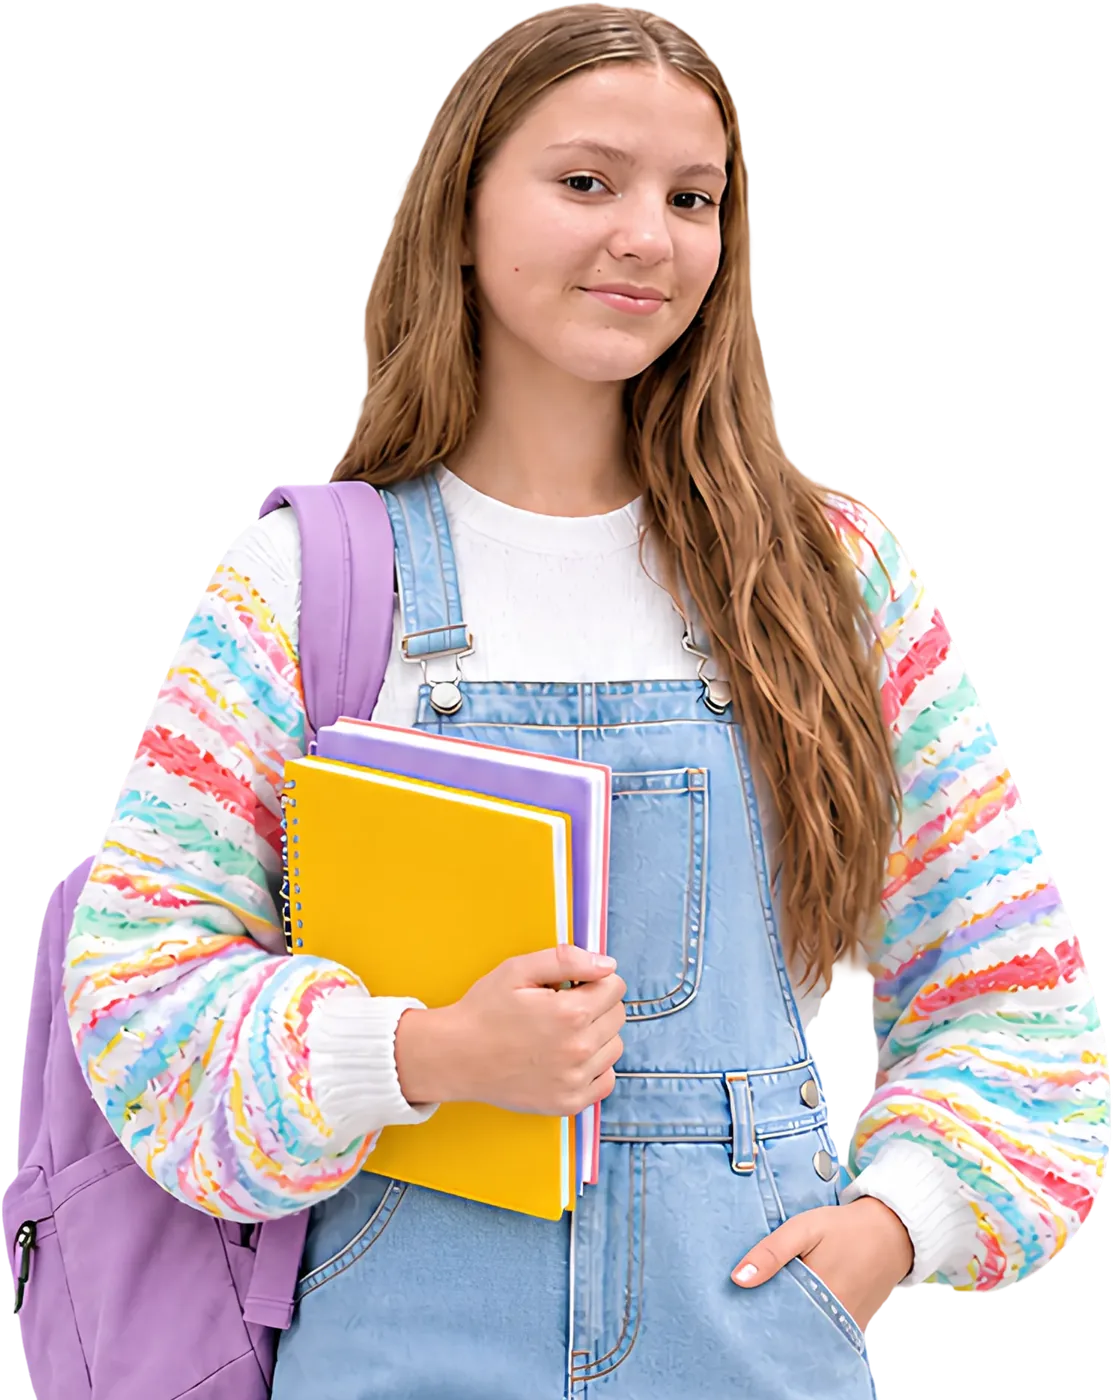
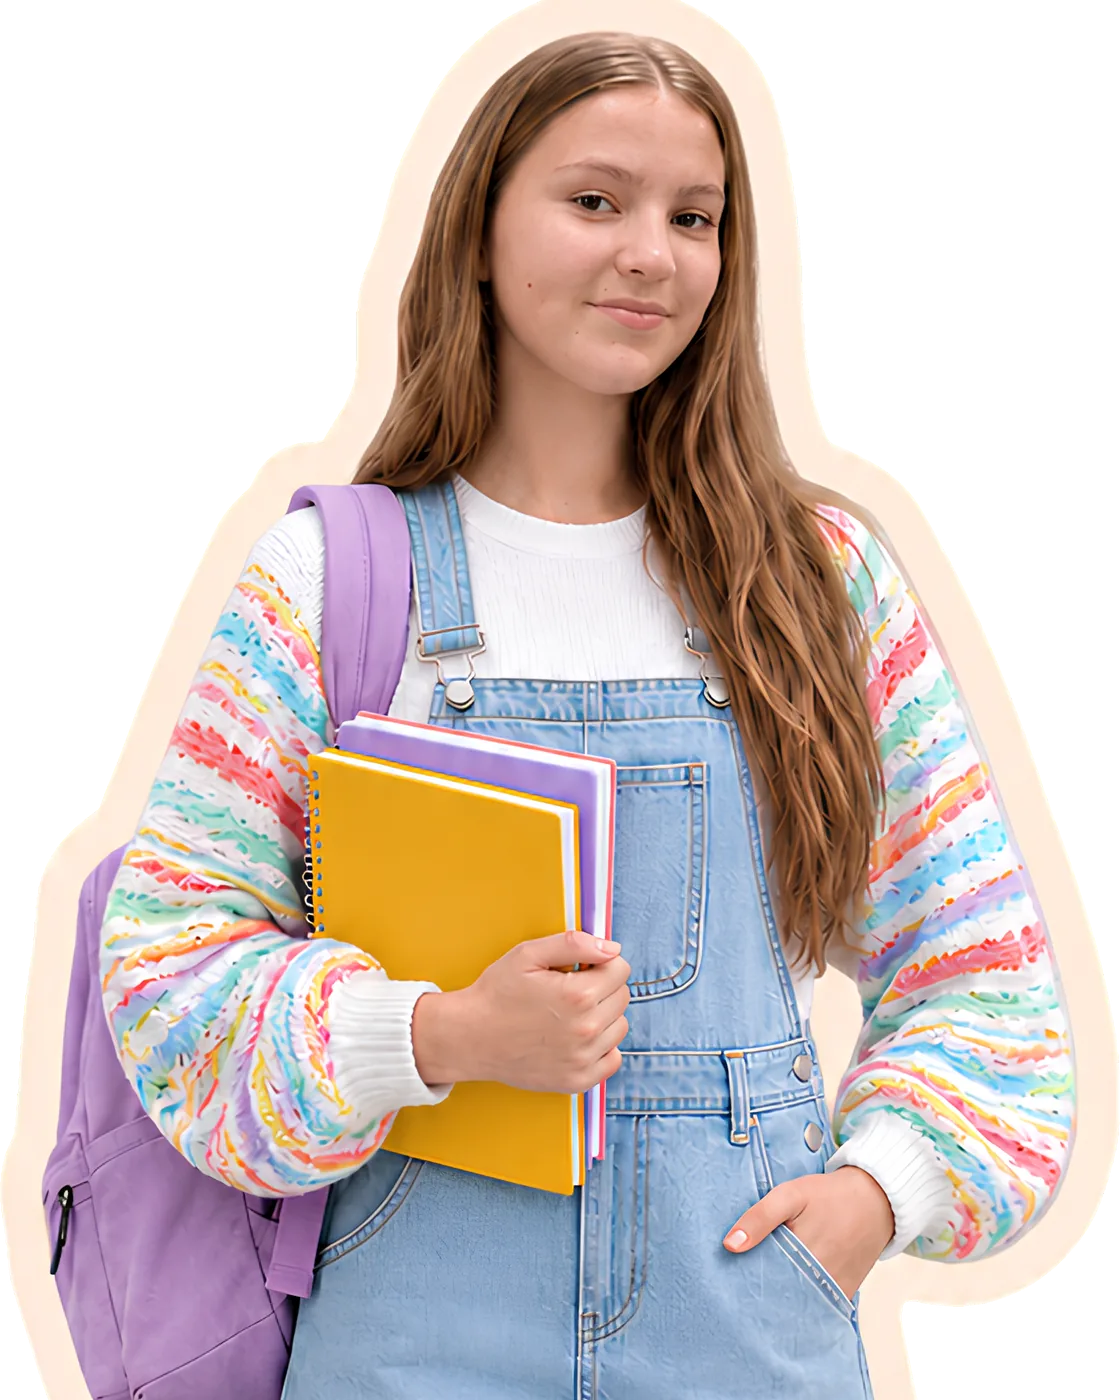
Вырезка в hero: вариант-наклейка с кремовой обводкой
Новый кадр клиента. Пришёл БЕЗ альфа-канала — фигура с обводкой
на сплошном чёрном фоне, прозрачность вырезана нами.

Фон снят заливкой от краёв кадра, а не порогом по яркости: в волосах
и тенях яркость доходит до 45, и порог продырявил бы фигуру. Замер —
внутри осталось 65 074 тёмных пикселя, все целы.

Альфа ужата на 3px. Это не косметика: под прозрачностью лежит чёрный,
PIL ресемплит RGB и альфу без предумножения, и без эрозии на кромке
смешался бы кремовый с чёрным. Эрозия уводит границу внутрь обводки,
поэтому мешается кремовый с кремовым. Контроль на готовом файле:
средняя яркость кромки 253 при обводке 250.

Кроп по пояс на y=3050 — ниже кисти в кармане, как и в прошлый раз.
1120×1400, WebP q82, 136 КБ. Пропорция 0.800 против 0.795, поэтому
раскладка и формула выравнивания синих полей не тронуты.

Замеры: 1920 → 560×700, поля 89/89; 1280 → 383×479, поля 52/52;
1024 → 380×475, макушка и низ целы.

diff --git a/css/hero.css b/css/hero.css
@@ -4,7 +4,7 @@
    со скруглением внутри .container, текст слева, вырезка без фона прижата
    к правому нижнему углу.
 
-   Кадр поясной (пропорция 0.795), поэтому колонка картинки широкая — 0.6fr.
+   Кадр поясной (пропорция 0.800), поэтому колонка картинки широкая — 0.6fr.
    ⚠ Меняете кроп вырезки — пересчитывайте эту долю: она подобрана так, чтобы
    синего поля слева и справа от фигуры было поровну (см. .hero__media ниже). */
 
@@ -170,7 +170,7 @@
 
 /* ⚠ Масштабируем по ВЫСОТЕ, а не по ширине — как вырезки в school
    (school/css/hero.css: .hero__kid { height: 100% }) и как в вебинаре 1.
-   У этого кадра меньшая сторона — ширина (1113×1400, пропорция 0.795),
+   У этого кадра меньшая сторона — ширина (1120×1400, пропорция 0.800),
    поэтому привязка к height корректна: высота упирается в потолок первой.
 
    ⚠ Потолок 700px — ровно предел по Retina, поднимать нельзя. Правило
@@ -236,10 +236,10 @@
   }
 
   /* ⚠ Здесь размер задаёт ШИРИНА, а не высота. Поясной кадр широкий
-     (пропорция 0.795): растянутая на всю высоту панели фигура вышла бы
+     (пропорция 0.800): растянутая на всю высоту панели фигура вышла бы
      под 420px по ширине и накрыла бы собой текстовую колонку даже
-     приглушённой. Потолок 380px даёт высоту ~478 (Retina: 760 против 1113
-     и 956 против 1400 в файле — апскейла нет), а `max-height: 100%`
+     приглушённой. Потолок 380px даёт высоту ~475 (Retina: 760 против 1120
+     и 950 против 1400 в файле — апскейла нет), а `max-height: 100%`
      страхует от вылета за верхнюю кромку на низкой панели. */
   .hero__teen {
     height: auto;

diff --git a/index.html b/index.html
@@ -186,7 +186,7 @@
           </div>
 
           <div class="hero__media">
-            <img class="hero__teen" src="assets/img/hero/teen.webp" alt="Старшеклассница с рюкзаком и тетрадями" width="1113" height="1400" fetchpriority="high">
+            <img class="hero__teen" src="assets/img/hero/teen.webp" alt="Старшеклассница с рюкзаком и тетрадями" width="1120" height="1400" fetchpriority="high">
           </div>
         </div>
       </div>

diff --git a/CLAUDE.md b/CLAUDE.md
@@ -94,7 +94,7 @@ vebinar-2/
         ├── logo.svg          — цветное лого (шапка)
         ├── logo_footer.svg   — белое лого (футер)
         ├── green-check.svg   — галочка в колонке «что происходит на самом деле»
-        ├── hero/teen.webp    — поясная вырезка старшеклассницы (1113×1400), см. раздел ниже
+        ├── hero/teen.webp    — поясная вырезка-наклейка старшеклассницы (1120×1400), см. раздел ниже
         ├── decor/            — grid.svg, wave.svg, swirl.webp, spark-*.svg,
         │                       boy.webp (⚠ ПОЛНЫЙ кадр 424×272 = boy-mobile.webp из school.
         │                       Десктопный кроп school 424×220 брать нельзя: у него
@@ -130,33 +130,54 @@ vebinar-2/
 
 ## 🖼 Вырезка в hero
 
-`assets/img/hero/teen.webp` — **1113×1400, WebP q82, 142 КБ**, поясная вырезка
-старшеклассницы с прозрачным фоном (файл клиента, 11.08.2026).
+`assets/img/hero/teen.webp` — **1120×1400, WebP q82, 136 КБ**, поясная вырезка
+старшеклассницы **в виде наклейки** — с кремовой обводкой по контуру
+(файл клиента, 11.08.2026).
 
-Как готовился из исходника 2731×4096 PNG (3.6 МБ):
+⚠ **Исходник пришёл БЕЗ альфа-канала:** RGB 4092×6148, фигура с кремовой обводкой
+на сплошном чёрном фоне. Прозрачность вырезана нами, и это главное отличие
+пайплайна от предыдущей версии.
 
-1. **обрезаны прозрачные поля** по `getbbox()` альфы — в исходнике фигура занимала
-   1494×3983 из 2731×4096, остальное пустота, которая всё равно попала бы в файл;
-2. **кроп по пояс на y=1880** от макушки. ⚠ Не по линии пояса (она на 1600–1650,
-   там пуговицы комбинезона): на 1650 разрезало бы кисть руки в кармане, которая
-   заканчивается только на ~1810. Режем ниже неё;
-3. **боковые поля пересчитаны заново** после вертикального кропа — ширину фигуры
-   задают локти и рюкзак, и после отсечения ног габарит меняется;
-4. **альфа ужата на 1px** (`ImageFilter.MinFilter(3)`) — у вырезок по краю остаётся
-   полупрозрачная кайма исходного фона, и на синем градиенте она читается светлым
-   ореолом. Тот же приём применён к вырезкам детей в `school/assets/img/invite/`;
-5. **масштаб до высоты 1400** (LANCZOS), пропорция 0.795;
-6. **WebP q82.** На q78 файл 126 КБ, на q86 — 164 КБ. Кадр дорогой по весу из-за
-   фактурного свитера; 82 — точка, где артефактов на лице и джинсе при 1:1 не видно.
+Как готовился (полный скрипт стоит держать под рукой — файл придётся пересобирать,
+если клиент пришлёт новый кадр в том же формате):
+
+1. **Фон снят заливкой от краёв, а не порогом по яркости.** Помечаем тёмные пиксели
+   (`max(R,G,B) < 45`), ищем связные области (`scipy.ndimage.label`) и удаляем только
+   те, что **выходят на край кадра**. ⚠ Просто порог по яркости здесь нельзя:
+   в волосах и тенях яркость доходит до ~45, и в фигуре появились бы дыры. Замер:
+   фон занял 66.9% кадра, внутри фигуры осталось 65 074 тёмных пикселя — они целы.
+2. **Альфа ужата на 3px** (`binary_erosion` ядром 7×7). На границе «чёрное → кремовое»
+   есть полоса антиалиасинга яркостью 80–200; в заливку она не попадает и на синем
+   читалась бы грязным тёмным ободком вокруг наклейки.
+3. **Кроп по пояс на y=3050** от верха наклейки. ⚠ Не по линии пояса (пуговицы
+   комбинезона на 2500–2600): там ещё не кончилась кисть руки в кармане, она идёт
+   до ~2950. Режем ниже неё.
+4. **Боковые поля пересчитаны заново** после вертикального кропа — ширину задают
+   локти и рюкзак, и после отсечения ног габарит меняется.
+5. **Масштаб до высоты 1400** (LANCZOS), пропорция 0.800.
+6. **WebP q82** — 136 КБ. На q78 было бы 119 КБ, на q86 — 162 КБ.
+
+⚠ **Почему при уменьшении не появился тёмный ободок.** PIL ресемплит RGB и альфу
+независимо, без предумножения, а под прозрачностью в этом файле лежит **чёрный** фон —
+классическая ловушка: на кромке смешался бы кремовый с чёрным. Спасает порядок шагов:
+эрозия альфы (шаг 2) уводит её границу **внутрь кремовой обводки**, поэтому снаружи
+от неё RGB тоже кремовый, и LANCZOS мешает кремовый с кремовым. Контрольный замер
+готового файла: 2976 полупрозрачных пикселей кромки, средняя яркость 253 при обводке 250,
+5-й перцентиль 247. **Поменяете порядок шагов или уберёте эрозию — получите тёмный
+контур**, и заметен он будет только на синем фоне, не в редакторе.
+
+ℹ Кремовая обводка — часть замысла кадра, а не артефакт вырезания: фигура задумана
+как наклейка. Тень `drop-shadow` на `.hero__teen` эту метафору поддерживает —
+наклейка приподнята над панелью. Уберёте обводку — снимайте и тень.
 
 ⚠ **Потолок `max-height: clamp(340px, 38cqw, 700px)` — ровно предел по Retina,
 поднимать нельзя.** Правило проекта: `CSS-размер × 2 ≤ натуральный размер файла`.
-700 × 2 = 1400 — в точности высота файла, запаса больше нет. Замеры: 1920 → 557×700
-(1.00×), 1440 → 429×540 (0.77×), 1280 → 381×479 (0.68×).
+700 × 2 = 1400 — в точности высота файла, запаса больше нет. Замеры: 1920 → 560×700
+(1.00×), 1280 → 383×479 (0.68×), 1024 → 380×475 (0.68×).
 
 **Схема та же, что в вебинаре 1:** масштаб по высоте (`height: 100%`), прижим к низу,
 `object-position: bottom`. Здесь это корректно, потому что меньшая сторона кадра —
-ширина. Линия кропа по пояс садится точно на нижнюю кромку панели
+ширина (1120×1400, пропорция 0.800). Линия кропа по пояс садится точно на нижнюю кромку панели
 (`margin-block-end: calc(var(--hero-pad) * -1)` съедает ровно padding, а `overflow: hidden`
 режет по border-box) — срез совпадает с краем панели и не читается как плохой кроп.
 
@@ -175,7 +196,7 @@ margin-inline-end: calc((var(--hero-pad) - var(--gap-cards)) * -1);
 внешнюю ширину блока, и центрирование смещает фигуру вправо на **половину** этого поля,
 поэтому в margin идёт удвоенный сдвиг, то есть сама разность токенов.
 
-Проверено замером: 1920 → 91/91, 1440 → 61/61, 1280 → 54/54 (расхождение 0px).
+Проверено замером: 1920 → 89/89, 1280 → 52/52 (расхождение 0px).
 
 ⚠ **Меняете кроп вырезки, `--hero-pad`, `--gap-cards` или долю колонки — поля
 разъедутся.** Пересчитывайте и проверяйте замером (скрипт — в разделе «Проверка»).
